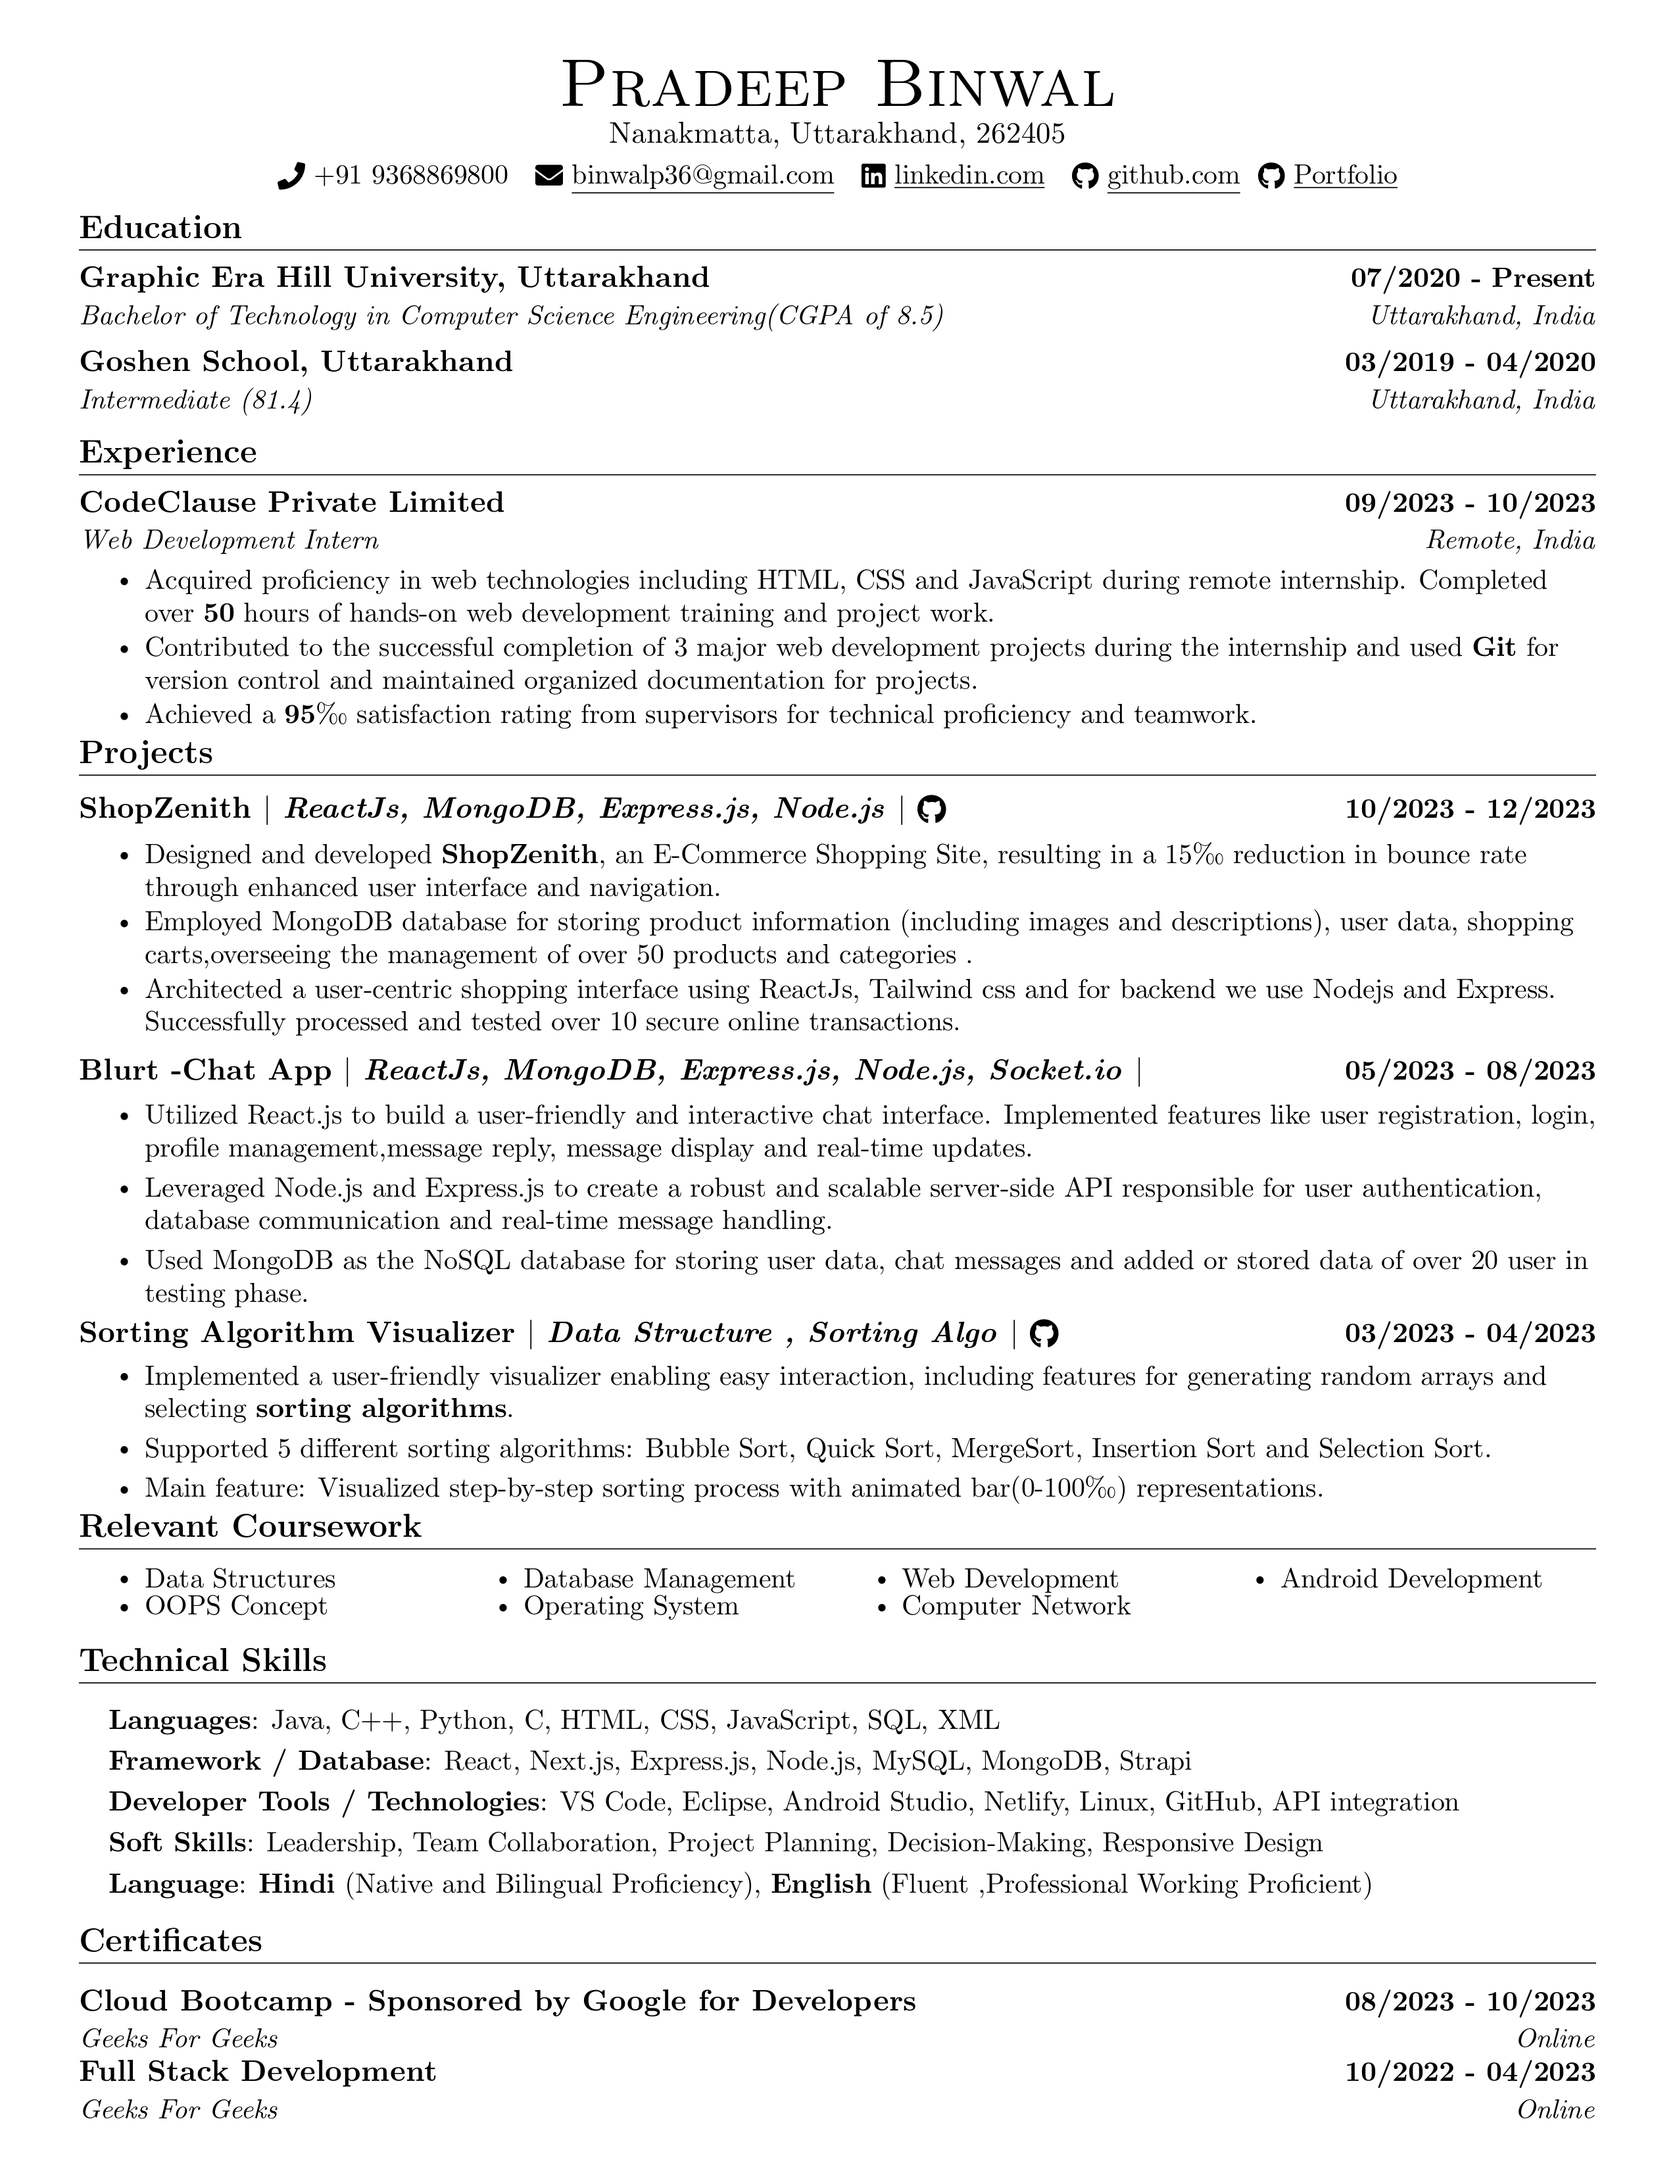
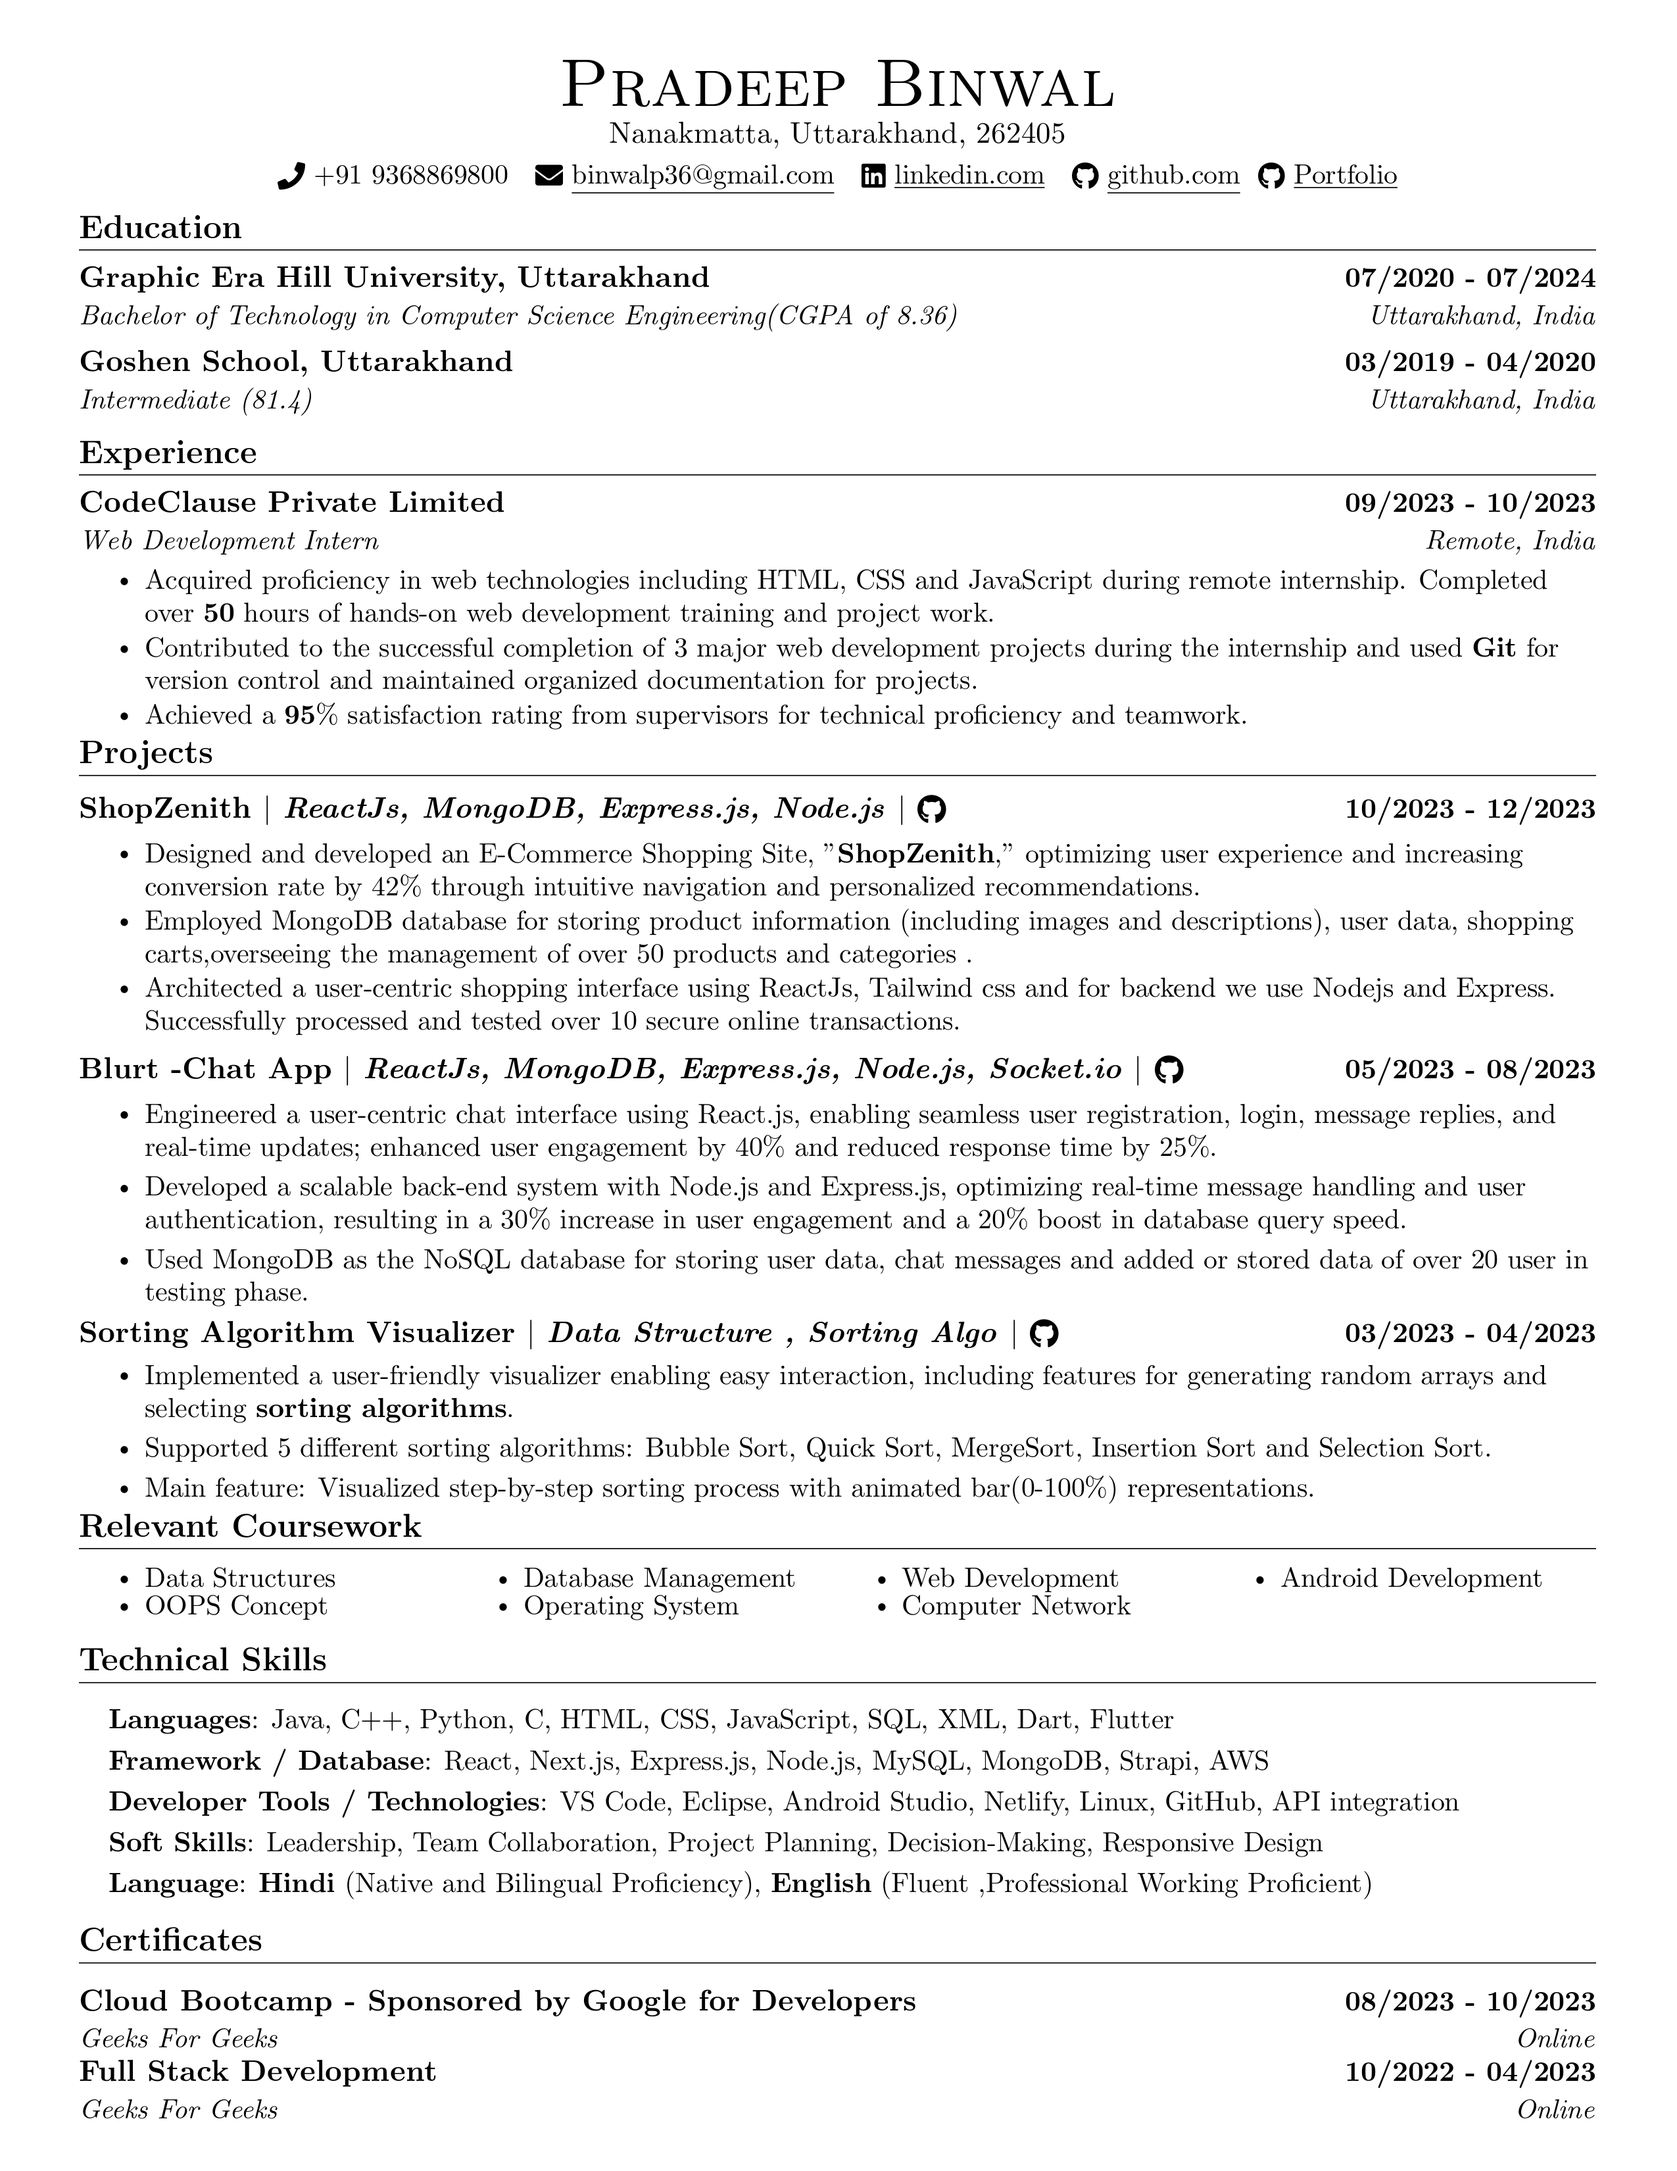
fifth-commit

diff --git a/src/content_option.js b/src/content_option.js
@@ -27,7 +27,7 @@ const dataabout = {
 const worktimeline = [{
         jobtitle: "Bachelor of Technology in Computer Science Engineering(CGPA of 8.65)",
         where: "Graphic Era Hill University, Uttarakhand",
-        date: "August 2020- Present",
+        date: "July 2020- July-2024",
     },
     {
         jobtitle: "Intermediate (81.4)",
@@ -50,16 +50,24 @@ const skills = [{
         value: 65,
     },
     {
-        name: "Javascript",
+        name: "MongoDB",
+        value: 80,
+    },
+    {
+        name: "ExpressJs",
         value: 70,
     },
     {
-        name: "React",
-        value: 60,
+        name: "NodeJs",
+        value: 70,
     },
     {
-        name: "Jquery",
-        value: 65,
+        name: "Javascript",
+        value: 80,
+    },
+    {
+        name: "React",
+        value: 75,
     },
     {
         name: "Python",

diff --git a/src/pages/resume/resume.js b/src/pages/resume/resume.js
@@ -1,5 +1,5 @@
 import React from 'react'
-import resume from '../../assets/Pradeepbinwal.jpg'
+import resume from '../../assets/PradeepBinwal.jpg'
 import './resume.css'
 import { HelmetProvider,Helmet } from 'react-helmet-async'
 import {meta } from "../../content_option";
